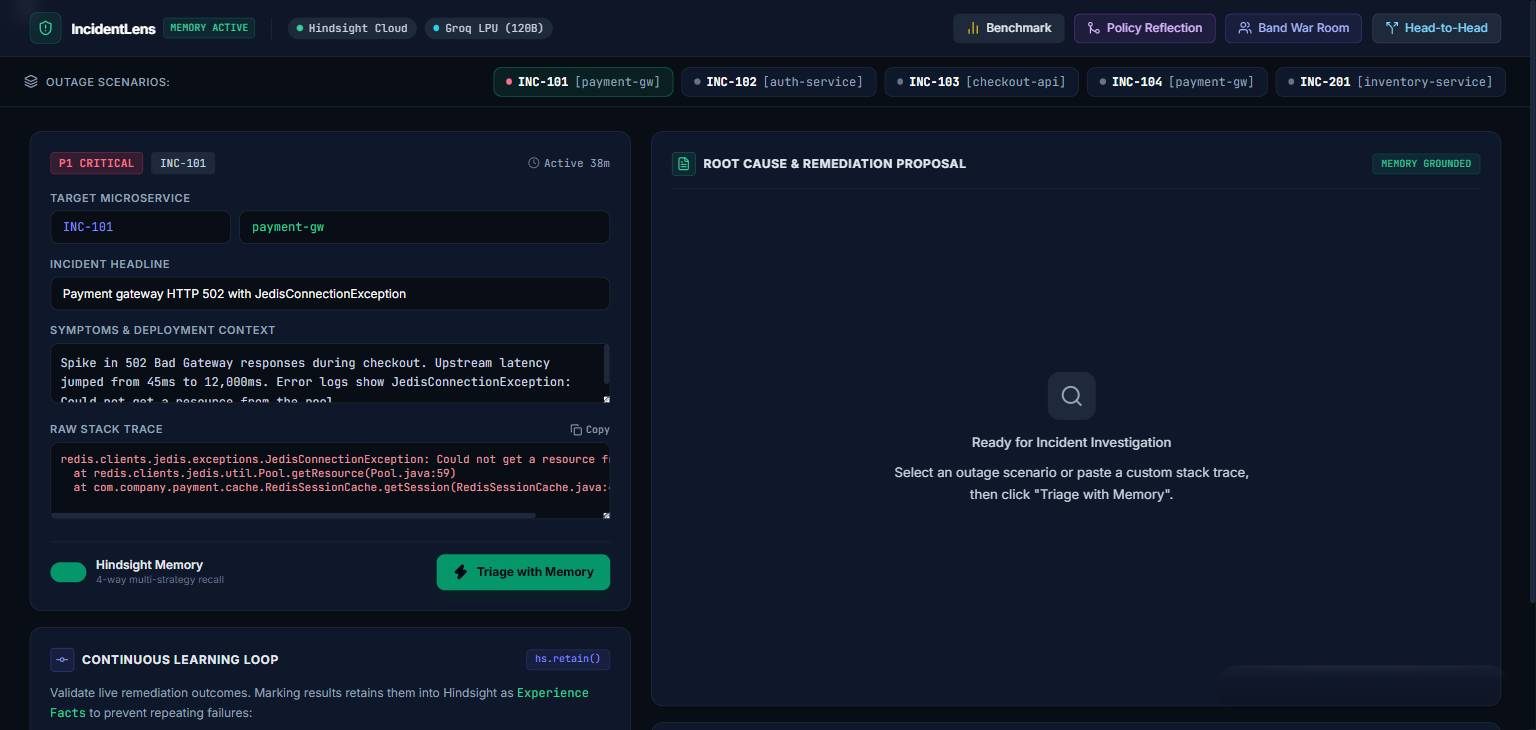
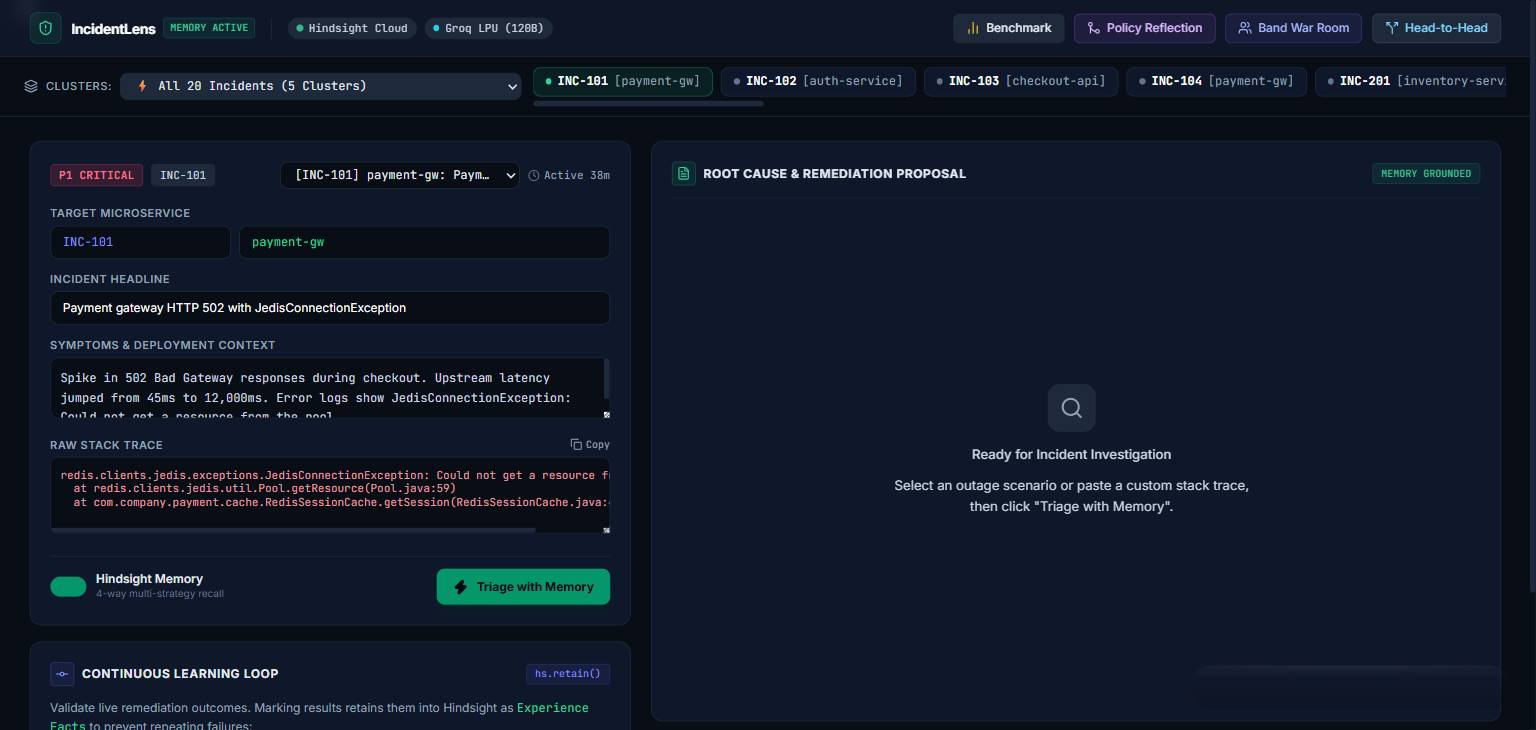
feat: add 20-incident cluster switcher, quick-jump selector, and zero-cost multi-key failover

diff --git a/server/static/index.html b/server/static/index.html
@@ -188,16 +188,29 @@
     </div>
   </header>
 
-  <!-- Scenario Quick-Switch Bar (5 Failure Clusters) -->
+  <!-- Scenario Quick-Switch Bar (All 20 Incidents across 5 Failure Clusters) -->
   <section class="border-b border-surface-border bg-surface-base px-4 lg:px-6 py-2.5">
-    <div class="max-w-[1520px] mx-auto flex items-center justify-between gap-4 overflow-x-auto">
+    <div class="max-w-[1520px] mx-auto flex flex-col md:flex-row md:items-center justify-between gap-3">
+      
+      <!-- Cluster Selector Filter -->
       <div class="flex items-center gap-2 text-xs text-slate-400 shrink-0">
         <i data-lucide="layers" class="w-3.5 h-3.5 text-slate-400"></i>
-        <span class="font-medium text-[11px] uppercase tracking-wider">Outage Scenarios:</span>
+        <span class="font-medium text-[11px] uppercase tracking-wider hidden sm:inline">Clusters:</span>
+        <select id="clusterFilter" onchange="onClusterFilterChange(this.value)" class="bg-surface-elevated border border-surface-border text-slate-200 text-xs rounded-lg px-2.5 py-1 font-mono focus:outline-none focus:border-emerald-500 cursor-pointer">
+          <option value="all">⚡ All 20 Incidents (5 Clusters)</option>
+          <option value="1">Cluster 1: Redis Pool Leaks (INC-101 to 104)</option>
+          <option value="2">Cluster 2: Postgres Deadlocks (INC-201 to 204)</option>
+          <option value="3">Cluster 3: Circuit Breaker & 429s (INC-301 to 304)</option>
+          <option value="4">Cluster 4: Kafka Rebalances (INC-401 to 404)</option>
+          <option value="5">Cluster 5: Metaspace & Thread OOM (INC-501 to 504)</option>
+        </select>
       </div>
-      <div id="scenarioPills" class="flex items-center gap-2 shrink-0">
+
+      <!-- Dynamic Pill Bar (All 20 Incidents) -->
+      <div id="scenarioPills" class="flex items-center gap-2 overflow-x-auto pb-1 max-w-full">
         <!-- Rendered dynamically -->
       </div>
+
     </div>
   </section>
 
@@ -210,15 +223,22 @@
       <!-- Incident Detail Card -->
       <div class="bg-surface-card border border-surface-border rounded-xl p-5 shadow-sm space-y-4">
         
-        <div class="flex items-center justify-between">
+        <div class="flex items-center justify-between gap-2 flex-wrap">
           <div class="flex items-center gap-2">
             <span class="px-2 py-0.5 rounded bg-rose-500/15 border border-rose-500/30 text-rose-400 text-[11px] font-mono font-bold tracking-wide">P1 CRITICAL</span>
             <span id="activeIncidentBadge" class="px-2 py-0.5 rounded bg-surface-elevated text-slate-300 text-[11px] font-mono border border-surface-border">INC-101</span>
           </div>
-          <span class="text-[11px] font-mono text-slate-400 flex items-center gap-1">
-            <i data-lucide="clock" class="w-3 h-3 text-slate-500"></i>
-            Active 38m
-          </span>
+
+          <!-- Direct Quick-Jump Dropdown to any of the 20 incidents -->
+          <div class="flex items-center gap-2">
+            <select id="incidentDropdownSelect" onchange="onDropdownSelect(this.value)" class="bg-surface-base border border-surface-border text-xs rounded-lg px-2.5 py-1 text-slate-200 font-mono focus:outline-none focus:border-emerald-500 max-w-[240px] truncate cursor-pointer">
+              <!-- Dynamically populated with all 20 incidents -->
+            </select>
+            <span class="text-[11px] font-mono text-slate-400 flex items-center gap-1 shrink-0">
+              <i data-lucide="clock" class="w-3 h-3 text-slate-500"></i>
+              Active 38m
+            </span>
+          </div>
         </div>
 
         <div class="space-y-3">
@@ -636,6 +656,7 @@
 
   <script>
     let incidentsData = [];
+    let currentSelectedId = "INC-101";
 
     async function init() {
       lucide.createIcons();
@@ -643,21 +664,49 @@
         const resp = await fetch('/api/incidents');
         const res = await resp.json();
         incidentsData = Array.isArray(res) ? res : (res.incidents || []);
-        renderScenarioPills();
+        populateIncidentDropdown();
+        renderScenarioPills('all');
         if (incidentsData.length > 0) {
-          selectScenario(0);
+          selectIncidentById(incidentsData[0].id);
         }
       } catch (err) {
         console.error("Failed to load incidents:", err);
       }
     }
 
-    function renderScenarioPills() {
+    function populateIncidentDropdown() {
+      const select = document.getElementById('incidentDropdownSelect');
+      if (!select) return;
+      select.innerHTML = incidentsData.map(inc => {
+        return `<option value="${inc.id}">[${inc.id}] ${inc.service}: ${inc.title.substring(0, 36)}...</option>`;
+      }).join('');
+    }
+
+    function onDropdownSelect(incId) {
+      selectIncidentById(incId);
+    }
+
+    function onClusterFilterChange(clusterVal) {
+      renderScenarioPills(clusterVal);
+    }
+
+    function renderScenarioPills(clusterVal = 'all') {
       const container = document.getElementById('scenarioPills');
-      container.innerHTML = incidentsData.slice(0, 5).map((inc, idx) => {
+      let filtered = incidentsData;
+      if (clusterVal !== 'all') {
+        const prefix = `INC-${clusterVal}`;
+        filtered = incidentsData.filter(inc => inc.id.startsWith(prefix));
+      }
+
+      container.innerHTML = filtered.map((inc) => {
+        const isSelected = inc.id === currentSelectedId;
+        const activeClass = isSelected
+          ? "scenario-pill px-3 py-1.5 rounded-lg text-xs font-mono border border-emerald-500/40 bg-emerald-500/10 text-emerald-300 transition-all flex items-center gap-1.5 cursor-pointer shadow-sm shrink-0"
+          : "scenario-pill px-3 py-1.5 rounded-lg text-xs font-mono border border-surface-border hover:border-slate-600 bg-surface-card transition-all flex items-center gap-1.5 cursor-pointer text-slate-300 shrink-0";
+
         return `
-          <button onclick="selectScenario(${idx})" id="pill-${idx}" class="scenario-pill px-3 py-1.5 rounded-lg text-xs font-mono border border-surface-border hover:border-slate-600 bg-surface-card transition-all flex items-center gap-1.5 cursor-pointer text-slate-300">
-            <span class="w-1.5 h-1.5 rounded-full ${idx === 0 ? 'bg-rose-400' : 'bg-slate-500'}"></span>
+          <button onclick="selectIncidentById('${inc.id}')" id="pill-${inc.id}" class="${activeClass}">
+            <span class="w-1.5 h-1.5 rounded-full ${isSelected ? 'bg-emerald-400' : 'bg-slate-500'}"></span>
             <span class="font-bold text-white">${inc.id}</span>
             <span class="text-slate-400 hidden sm:inline">[${inc.service}]</span>
           </button>
@@ -665,17 +714,29 @@
       }).join('');
     }
 
-    function selectScenario(index) {
-      const inc = incidentsData[index];
+    function selectIncidentById(incId) {
+      currentSelectedId = incId;
+      const inc = incidentsData.find(i => i.id === incId);
       if (!inc) return;
 
-      document.querySelectorAll('.scenario-pill').forEach((pill, idx) => {
-        if (idx === index) {
-          pill.className = "scenario-pill px-3 py-1.5 rounded-lg text-xs font-mono border border-emerald-500/40 bg-emerald-500/10 text-emerald-300 transition-all flex items-center gap-1.5 cursor-pointer shadow-sm";
+      // Update pills highlighting
+      document.querySelectorAll('.scenario-pill').forEach((pill) => {
+        if (pill.id === `pill-${incId}`) {
+          pill.className = "scenario-pill px-3 py-1.5 rounded-lg text-xs font-mono border border-emerald-500/40 bg-emerald-500/10 text-emerald-300 transition-all flex items-center gap-1.5 cursor-pointer shadow-sm shrink-0";
+          const dot = pill.querySelector('span');
+          if (dot) dot.className = "w-1.5 h-1.5 rounded-full bg-emerald-400";
         } else {
-          pill.className = "scenario-pill px-3 py-1.5 rounded-lg text-xs font-mono border border-surface-border hover:border-slate-600 bg-surface-card transition-all flex items-center gap-1.5 cursor-pointer text-slate-300";
+          pill.className = "scenario-pill px-3 py-1.5 rounded-lg text-xs font-mono border border-surface-border hover:border-slate-600 bg-surface-card transition-all flex items-center gap-1.5 cursor-pointer text-slate-300 shrink-0";
+          const dot = pill.querySelector('span');
+          if (dot) dot.className = "w-1.5 h-1.5 rounded-full bg-slate-500";
         }
       });
+
+      // Update dropdown
+      const dropdown = document.getElementById('incidentDropdownSelect');
+      if (dropdown && dropdown.value !== incId) {
+        dropdown.value = incId;
+      }
 
       document.getElementById('activeIncidentBadge').innerText = inc.id;
       document.getElementById('incidentIdInput').value = inc.id;

diff --git a/server/engine.py b/server/engine.py
@@ -24,16 +24,30 @@ class IncidentLensEngine:
         self.bank_id = bank_id
         self.hindsight_base_url = os.getenv("HINDSIGHT_BASE_URL", "https://api.hindsight.vectorize.io")
         self.hindsight_api_key = os.getenv("HINDSIGHT_API_KEY", "")
-        self.groq_api_key = os.getenv("GROQ_API_KEY", "")
         self.groq_model = os.getenv("GROQ_MODEL", "openai/gpt-oss-120b")
 
-        # Initialize Groq client
-        self.groq_client = None
-        if Groq and self.groq_api_key and self.groq_api_key.startswith("gsk_"):
-            try:
-                self.groq_client = Groq(api_key=self.groq_api_key)
-            except Exception as e:
-                print(f"[IncidentLens] Warning: Failed to initialize Groq: {e}")
+        # Collect primary and backup Groq API keys
+        self.groq_api_keys = []
+        if os.getenv("GROQ_API_KEY"):
+            self.groq_api_keys.append(os.getenv("GROQ_API_KEY").strip())
+        if os.getenv("GROQ_API_KEY_BACKUP"):
+            self.groq_api_keys.append(os.getenv("GROQ_API_KEY_BACKUP").strip())
+        if os.getenv("GROQ_API_KEYS"):
+            for k in os.getenv("GROQ_API_KEYS").split(","):
+                if k.strip() and k.strip() not in self.groq_api_keys:
+                    self.groq_api_keys.append(k.strip())
+
+        # Initialize primary Groq client
+        self.groq_clients = []
+        if Groq:
+            for key in self.groq_api_keys:
+                if key.startswith("gsk_"):
+                    try:
+                        self.groq_clients.append(Groq(api_key=key))
+                    except Exception as e:
+                        print(f"[IncidentLens] Warning: Failed to initialize Groq client for key: {e}")
+        
+        self.groq_client = self.groq_clients[0] if self.groq_clients else None
 
     def _hs_headers(self) -> Dict[str, str]:
         headers = {"Content-Type": "application/json"}
@@ -336,22 +350,25 @@ class IncidentLensEngine:
 
         analysis_text = None
 
-        # Call Groq LLM if available and not failing
-        if self.groq_client:
-            try:
-                resp = self.groq_client.chat.completions.create(
-                    model=self.groq_model,
-                    messages=[
-                        {"role": "system", "content": system_prompt},
-                        {"role": "user", "content": user_content}
-                    ],
-                    temperature=0.2,
-                    max_tokens=1200
-                )
-                analysis_text = resp.choices[0].message.content
-            except Exception as e:
-                print(f"[IncidentLens] Groq call failed or lacks credits ({e}). Using SRE Cognitive Synthesis.")
-                analysis_text = None
+        # Call Groq LLM with multi-key redundancy
+        if self.groq_clients:
+            for idx, client in enumerate(self.groq_clients):
+                try:
+                    resp = client.chat.completions.create(
+                        model=self.groq_model,
+                        messages=[
+                            {"role": "system", "content": system_prompt},
+                            {"role": "user", "content": user_content}
+                        ],
+                        temperature=0.2,
+                        max_tokens=1200
+                    )
+                    analysis_text = resp.choices[0].message.content
+                    if analysis_text:
+                        break
+                except Exception as e:
+                    print(f"[IncidentLens] Groq key #{idx+1} failed or lacks credits ({e}). Trying backup/fallback...")
+                    continue
 
         if not analysis_text:
             analysis_text = self._synthesize_sre_analysis(
